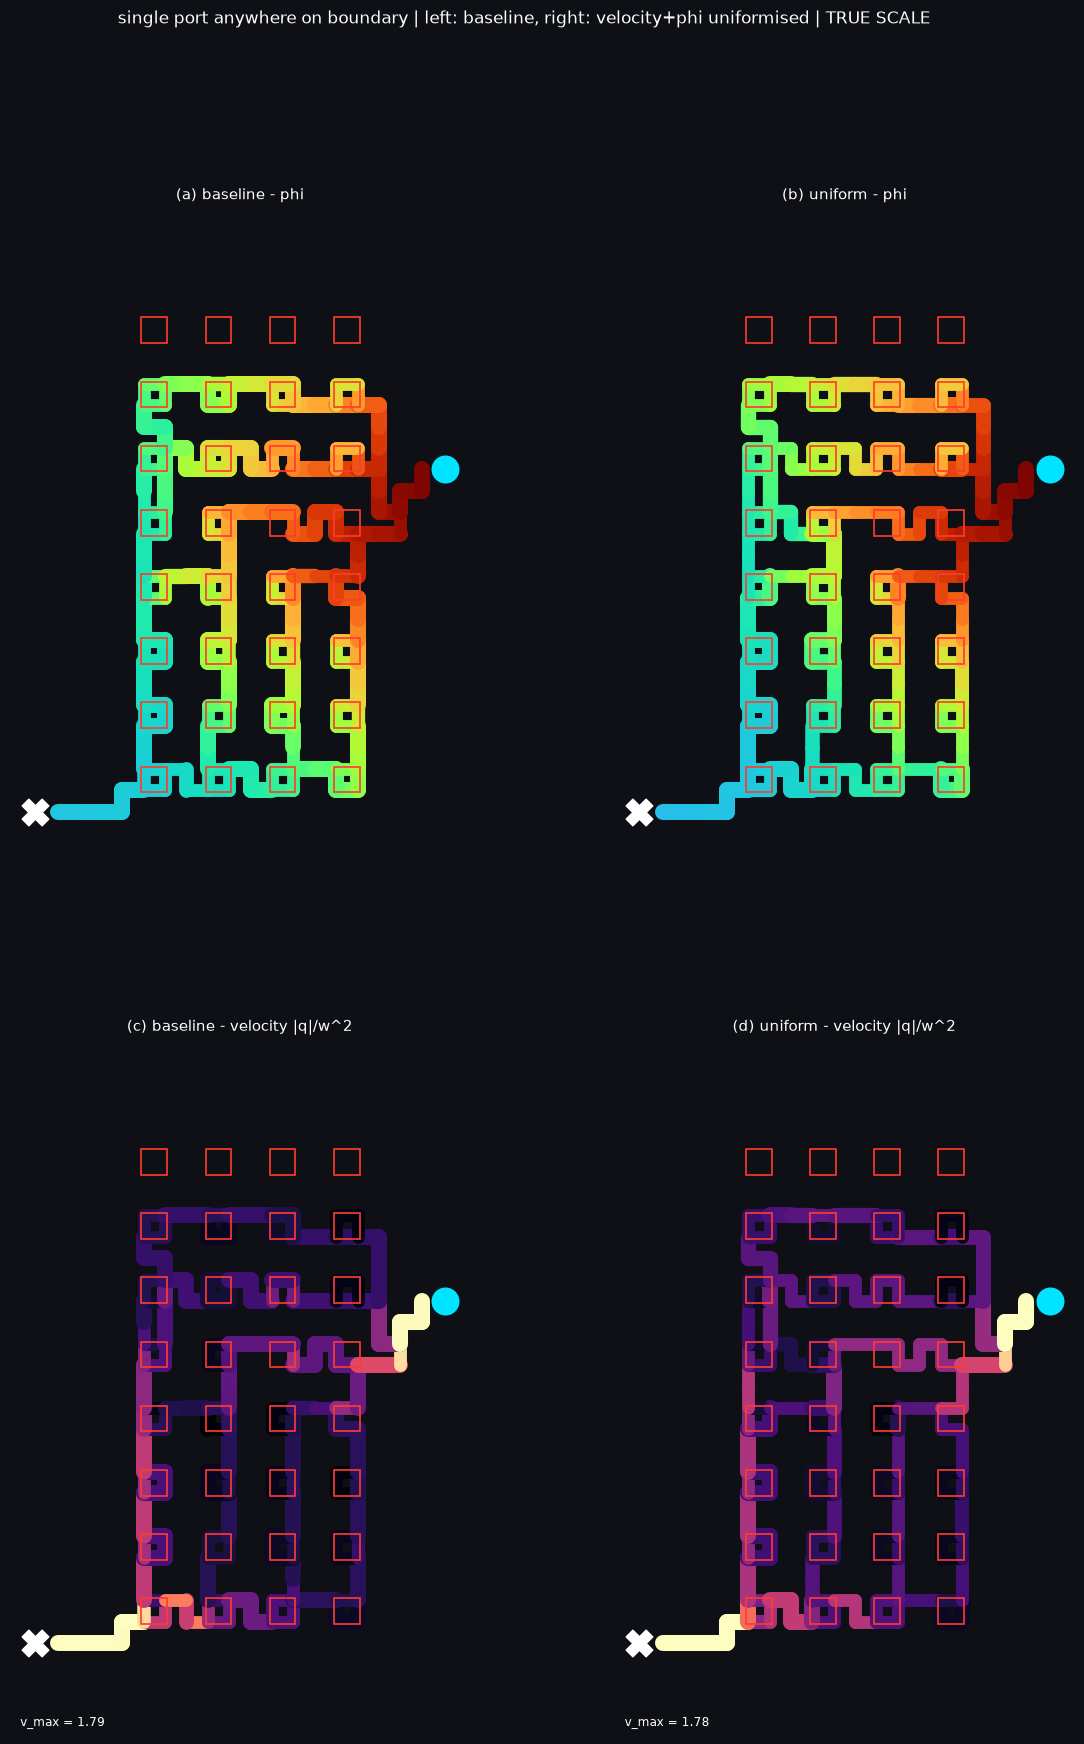
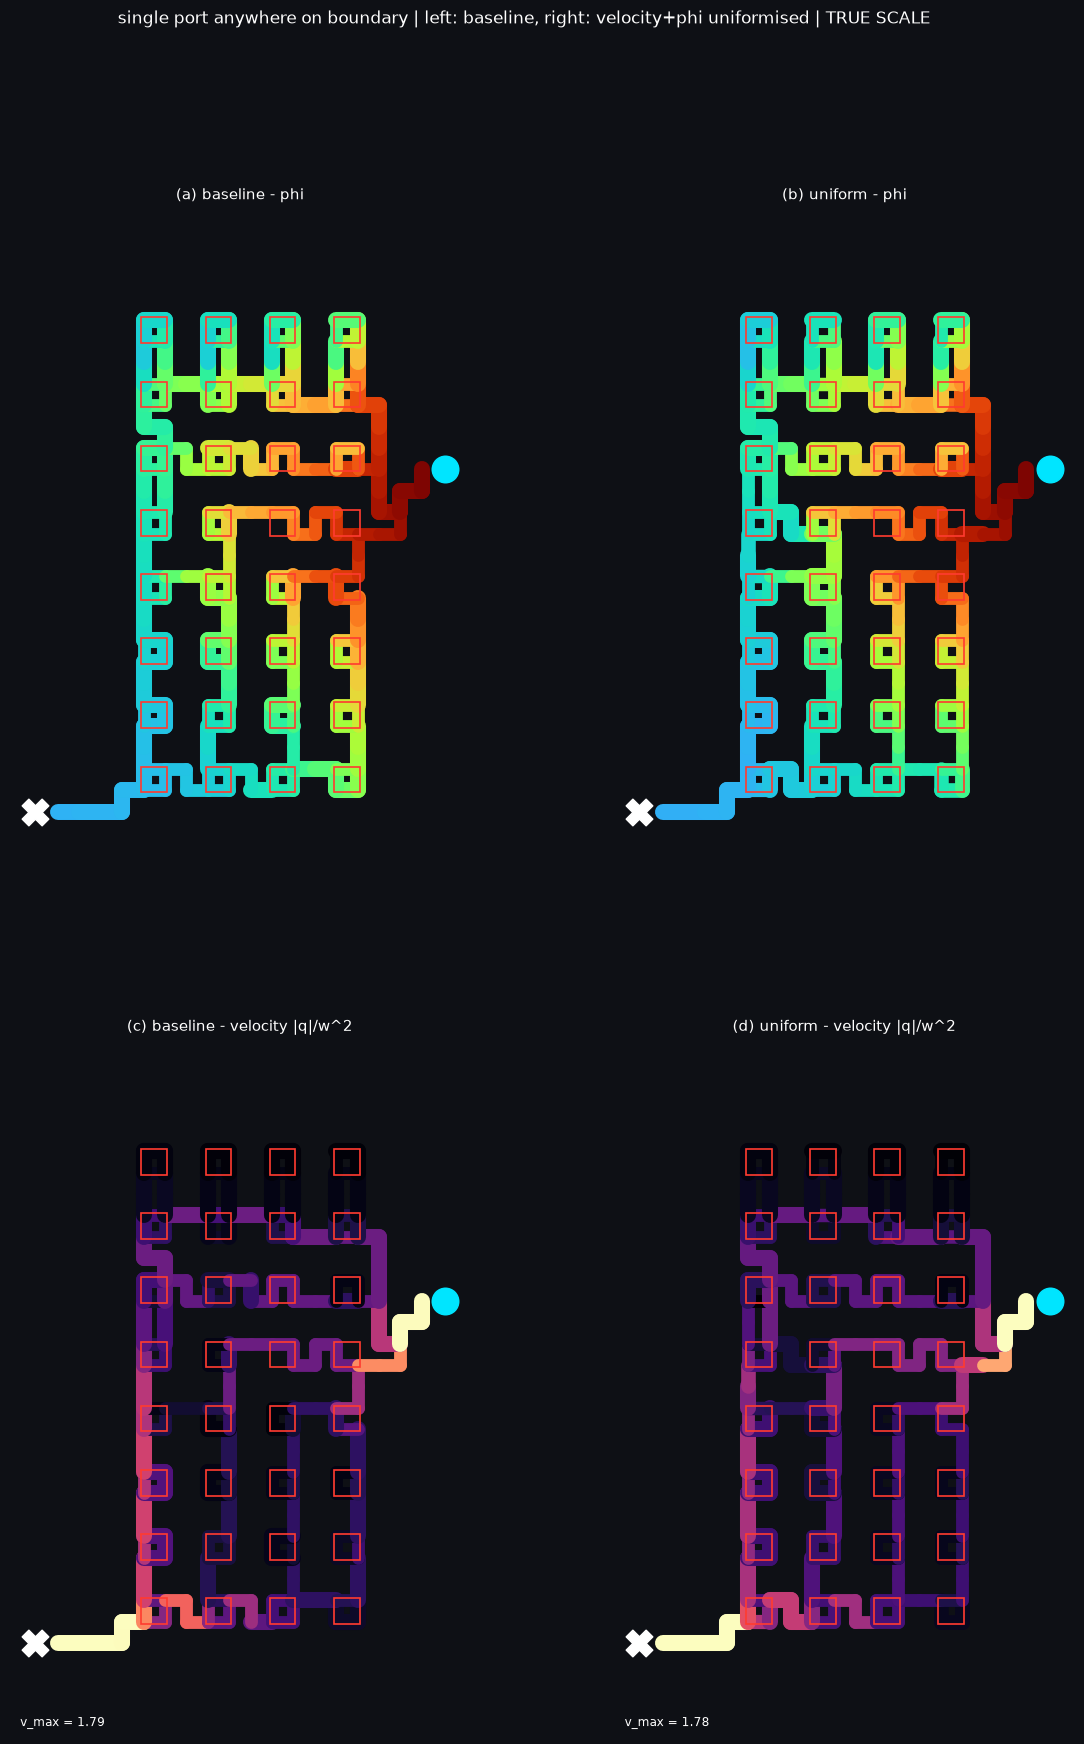
docs(coldplate): 被覆修復の実測結果 — 最上段行 4 ブロックを 32/32 に回復
- repair 実測 (境界 Z 型, cap=5.5): 孤児 = 最上段行 block 7/15/23/31 に
  各 2 回廊 -> 32/32 被覆、漏れ厳密ゼロ・connected 維持
- worst-block -4.81 (28 blocks) -> -5.24 (32 blocks)。全被覆比較では
  左辺単一ポート (-5.04) が境界 Z 型+修復より優位である旨を README に明記
- ログ (repair 実行 + 修復前小規模検証) と更新済み図・npz を追加

Claude-Session: https://claude.ai/code/session_013QefACstgWCcigMMfkBKRK

diff --git a/experiments/coldplate/README.md b/experiments/coldplate/README.md
@@ -141,8 +141,23 @@ v1 は SIMP の `rho_floor = 1e-4` により、消したはずの辺にも
    上流→下流の φ 勾配自体は消せない。φ_b を完全均一化するには全ブロックへ
    等 NTU 経路 (H 木状の等長分岐) が必要で、これは位相制約として課すか
    P0-(c) の整数計画で扱う領域。
-5. 残課題: 境界自由ポートの位相探索は 28/32 被覆の局所解に留まり、左辺
-   単一ポート (32/32) に劣る。seed / continuation の感度は未調査。
+5. 境界自由ポートの位相探索は 28/32 被覆の局所解に留まる (孤児 = 最上段行
+   4 ブロック)。下記の被覆修復 (stage C) で 32/32 に回復する。
+
+### 被覆修復 (stage C, `repair_coverage`)
+
+刈り込み後に孤児ブロックが残る場合、貪欲 Steiner 増強で主成分に組み込む:
+footprint 4 辺を有効化し、対角 2 隅からアクティブ集合へ辺素の最短回廊を
+BFS で 2 本追加 (着地点が同一節点だと循環ゼロのぶら下がりループになるため
+2 本目は別着地点を強制)。続く再最適化で softmin が孤児を含むようになり、
+回廊へ実流量が配られる。
+
+実測 (境界 Z 型、cap=5.5): 最上段行 4 ブロックに各 2 回廊 → **32/32 被覆**、
+漏れ厳密ゼロ・connected 維持。worst-block は -4.81 (28 ブロック時) →
+-5.24 (32 ブロック、修復後) — 上段行への給水は高くつくが、被覆は構成的に
+保証される。なお全被覆同士の比較では左辺単一ポート解 (-5.04, log_diss 4.35)
+が境界 Z 型+修復 (-5.24, log_diss 4.33) より優位であり、Z 型対角は
+「経路長は揃うが上段が遠い」局所解である点に注意。
 
 ## 可視化
 
